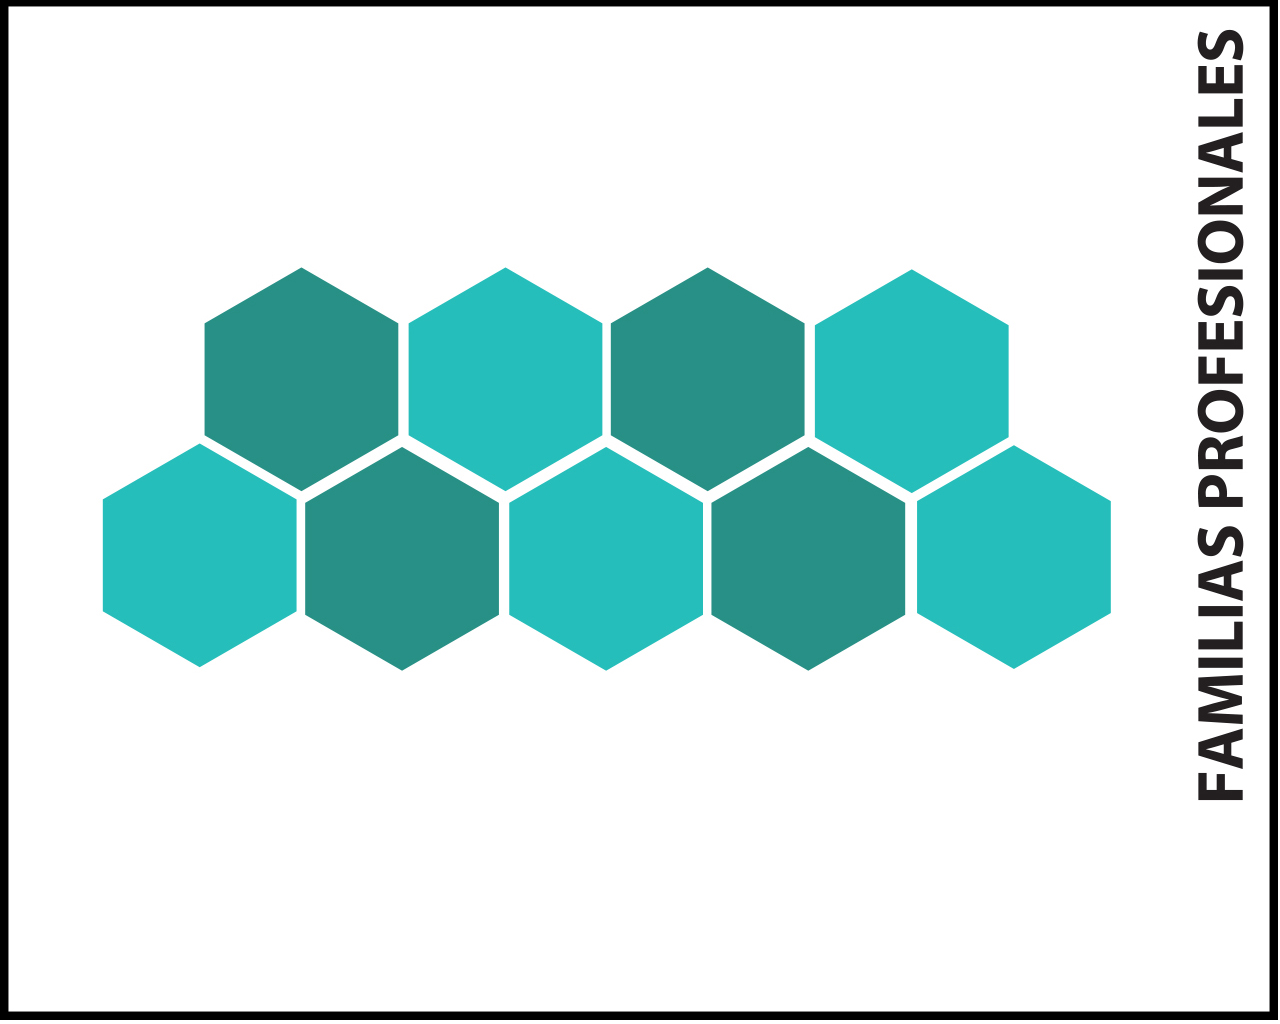
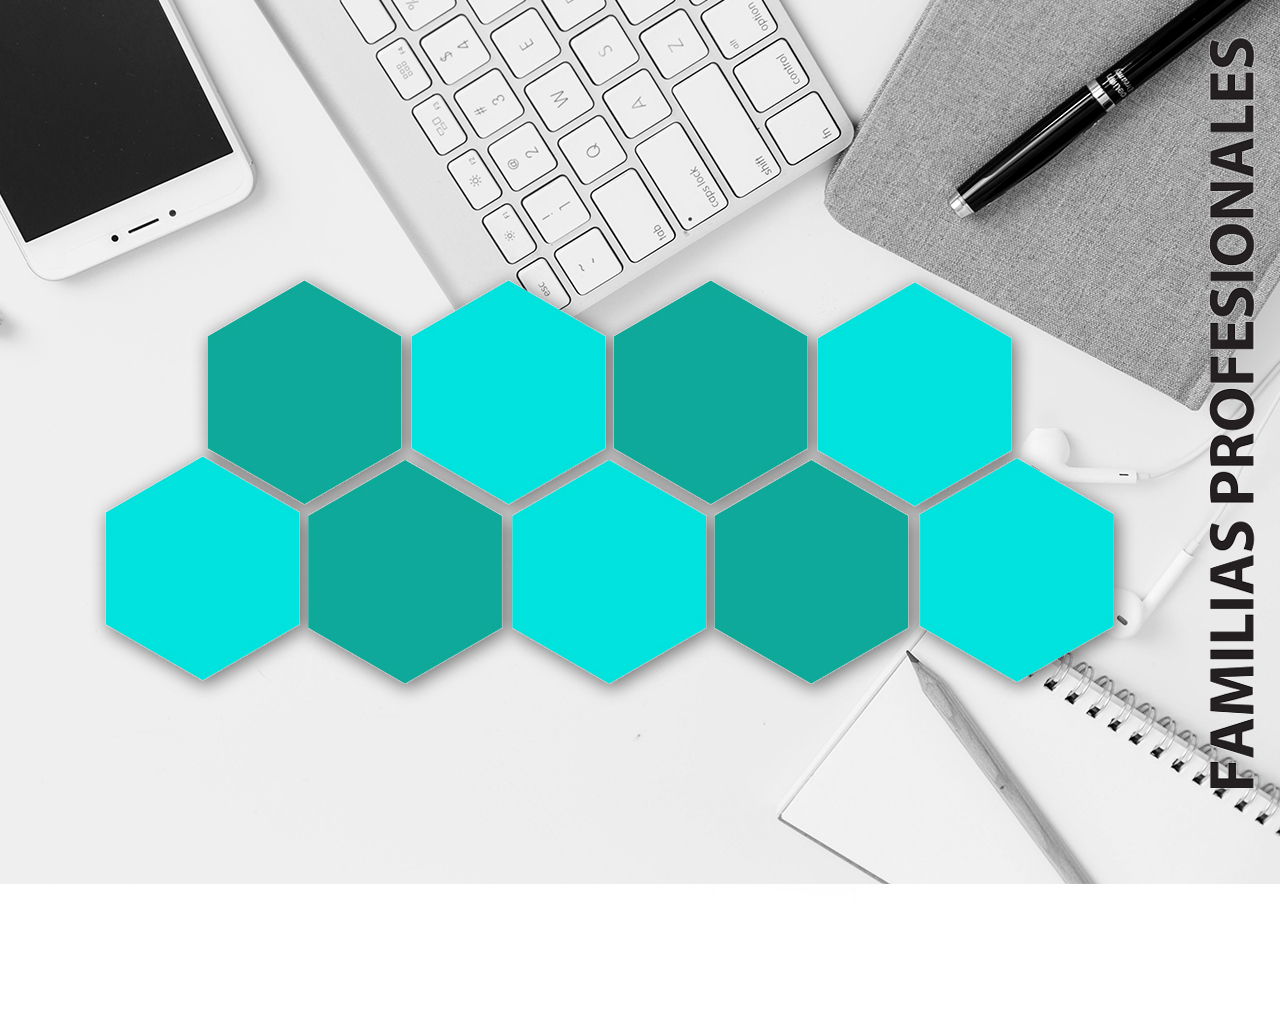
ventana familias

diff --git a/estilo.css b/estilo.css
@@ -1,16 +1,16 @@
 .ventana{
 	width: 1280px;
 	height: 1024px;
-	background-image: url("css/imagenes/bg-familias.jpg");
-	background-repeat: no-repeat;
 }
+
 .cabecera{
 	height: 30px;
-	/*background-image: url("css/imagenes/cabecera.png");*/
 	background-repeat: no-repeat;
 }
 
-li{
+
+/*BOTONES INTERIOR VER POR FAMILIAS*/
+.gradosFamilias{
 	display: block;
 	width: 194px;
 	height: 112px;
@@ -20,27 +20,38 @@ li{
 	text-align: center;
 	font-size: 25px;
 	font-family: sans-serif;
-	
-	
 }
-li:nth-child(-n+4){
+.gradosFamilias a{
+	color:white;
+	text-decoration: none;
+}
+
+.gradosFamilias:nth-child(-n+4){
 	margin-top: 320px;
 }
-li:nth-child(-n+1){
+.gradosFamilias:nth-child(-n+1){
 	margin-left: 165px;
 }
-li:nth-child(5){
+.gradosFamilias:nth-child(5){
 	clear: left;
 	margin-top: 130px;
 	margin-left: 70px;
 }
-li:nth-child(n+5){
+.gradosFamilias:nth-child(n+5){
 	margin-top: 50px;
 	}
 
 .footer{
 	clear: both;
 }
+.boton img{
+	height: 98px;
+	margin-top: 30px;
+}
+.boton p{
+	padding-top: 8px;
+}
+
 .boton{
 	width: 315px;
 	height: 200px;
@@ -53,5 +64,7 @@ li:nth-child(n+5){
 	font-size:20px;
 	text-align:center;
 }
+
+
 
 
